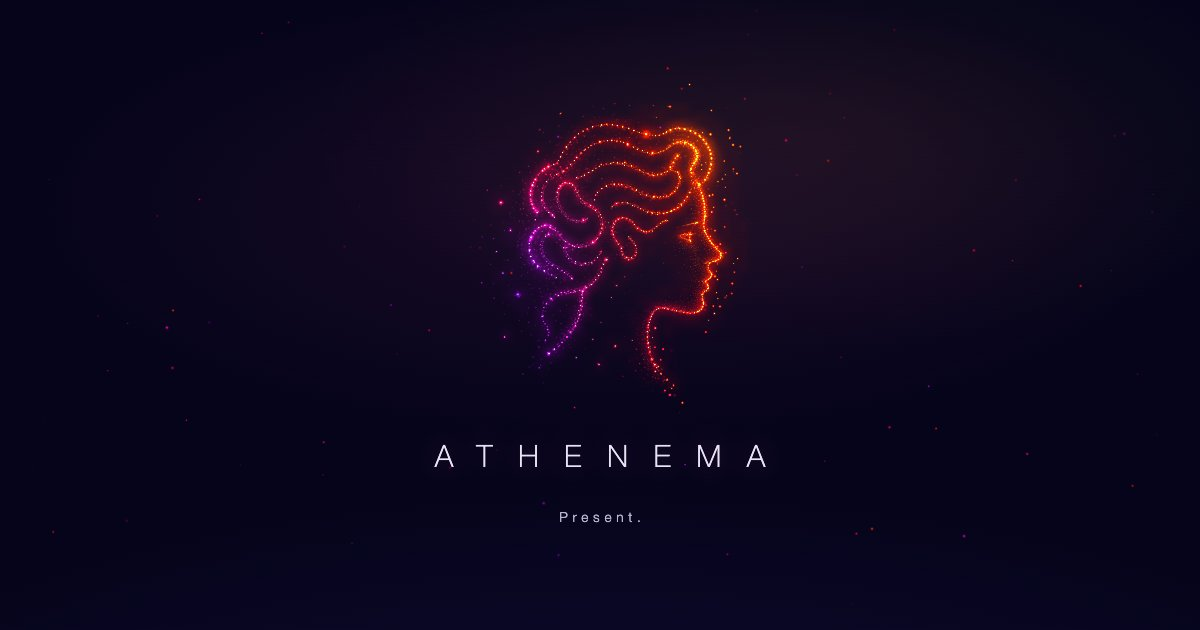
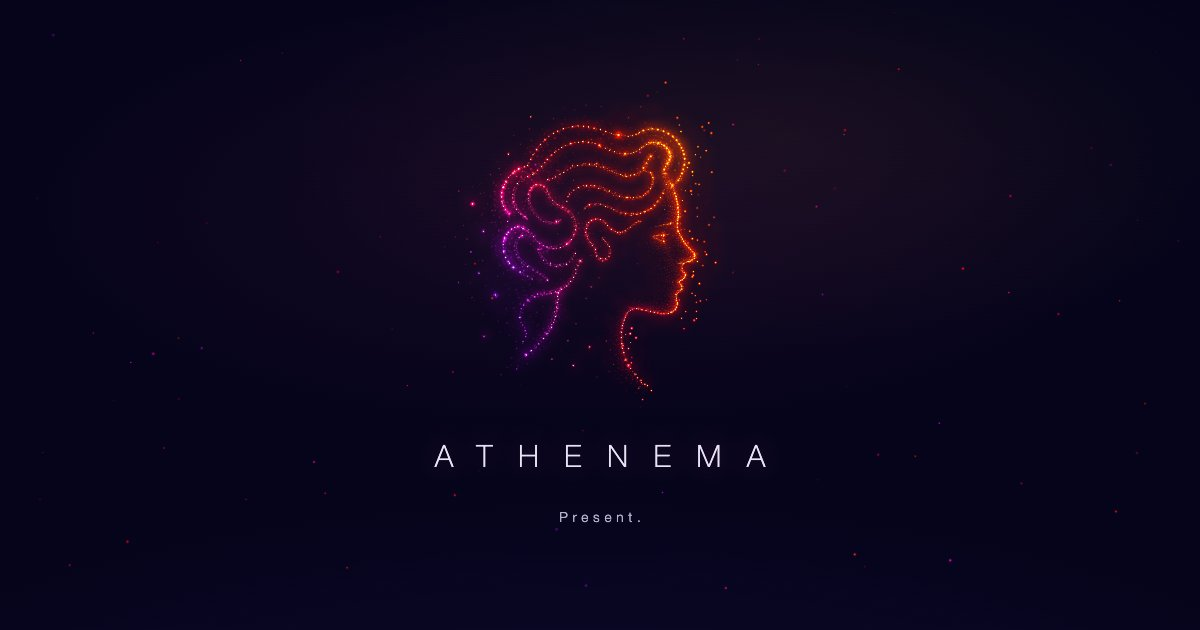
Live dots v5: optical centring, head 9% left
The head's outline sat 8% of the mark right of page centre and its visual
weight 14% right, with the nose past the end of the wordmark. Moved the mark
9%, chosen by eye from 8 to 14, which puts the outline a few px left of
centre and the head inside the wordmark on desktop. The still fallback is
framed differently and moves 3.5% to land in the same place. Share image
refreshed from the new page.

Changed region(s): [[0.4008, 0.181, 0.6167, 0.6333]]

diff --git a/index.html b/index.html
@@ -76,9 +76,11 @@
     max-width: 520px;
     aspect-ratio: 1;
     margin: 0 auto;
+    transform: translateX(-9%); /* optical centre: the bright face is on the right and she looks that way */
   }
-  /* no JS or no WebGL: the still mark */
+  /* no JS or no WebGL: the still mark, framed further left, so it lands in the same place */
   .mark.still {
+    transform: translateX(-3.5%);
     background: url("logo.webp") center / 142% no-repeat;
     -webkit-mask-image: radial-gradient(circle at 50% 50%, black 52%, transparent 72%);
             mask-image: radial-gradient(circle at 50% 50%, black 52%, transparent 72%);
@@ -373,10 +375,10 @@
   canvas.addEventListener('webglcontextrestored', init);
   init();
   window.dots = add;
[2 lines of base64/hex data omitted]
   if (!calm) embers();
 })();
 </script>
[2 lines of base64/hex data omitted]
 </body>
 </html>

diff --git a/tools/template.html b/tools/template.html
@@ -76,9 +76,11 @@
     max-width: 520px;
     aspect-ratio: 1;
     margin: 0 auto;
+    transform: translateX(-9%); /* optical centre: the bright face is on the right and she looks that way */
   }
-  /* no JS or no WebGL: the still mark */
+  /* no JS or no WebGL: the still mark, framed further left, so it lands in the same place */
   .mark.still {
+    transform: translateX(-3.5%);
     background: url("logo.webp") center / 142% no-repeat;
     -webkit-mask-image: radial-gradient(circle at 50% 50%, black 52%, transparent 72%);
             mask-image: radial-gradient(circle at 50% 50%, black 52%, transparent 72%);
